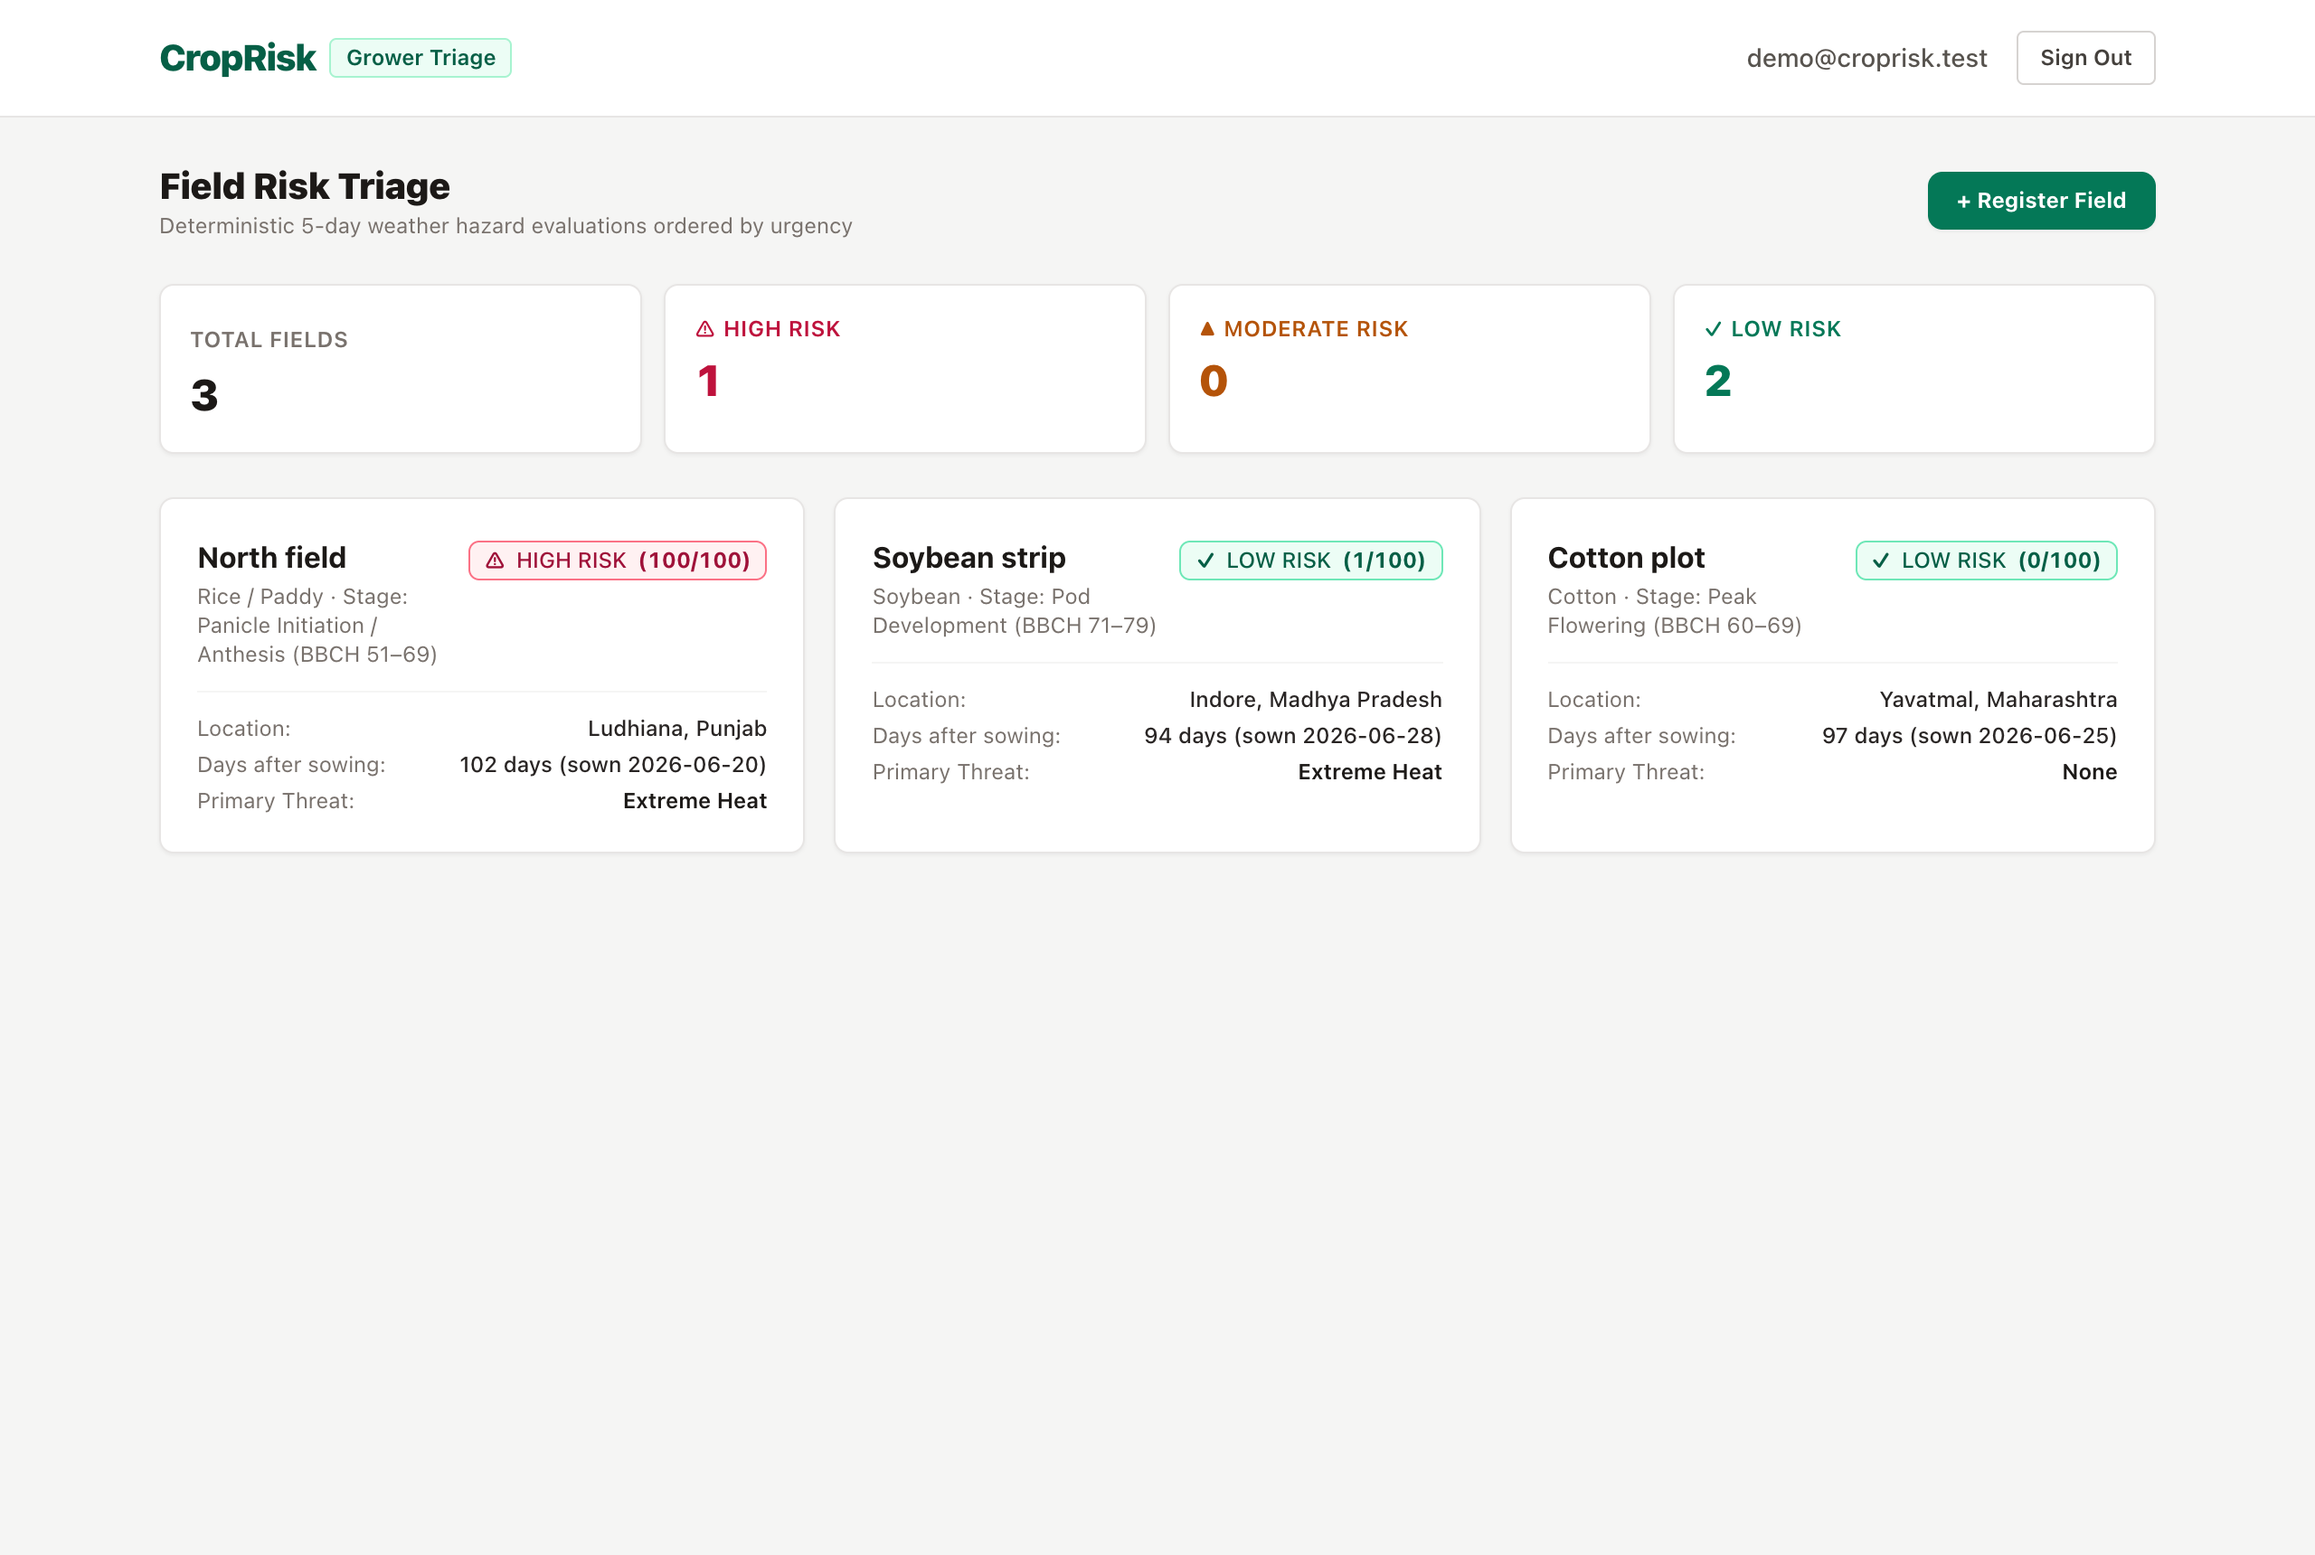
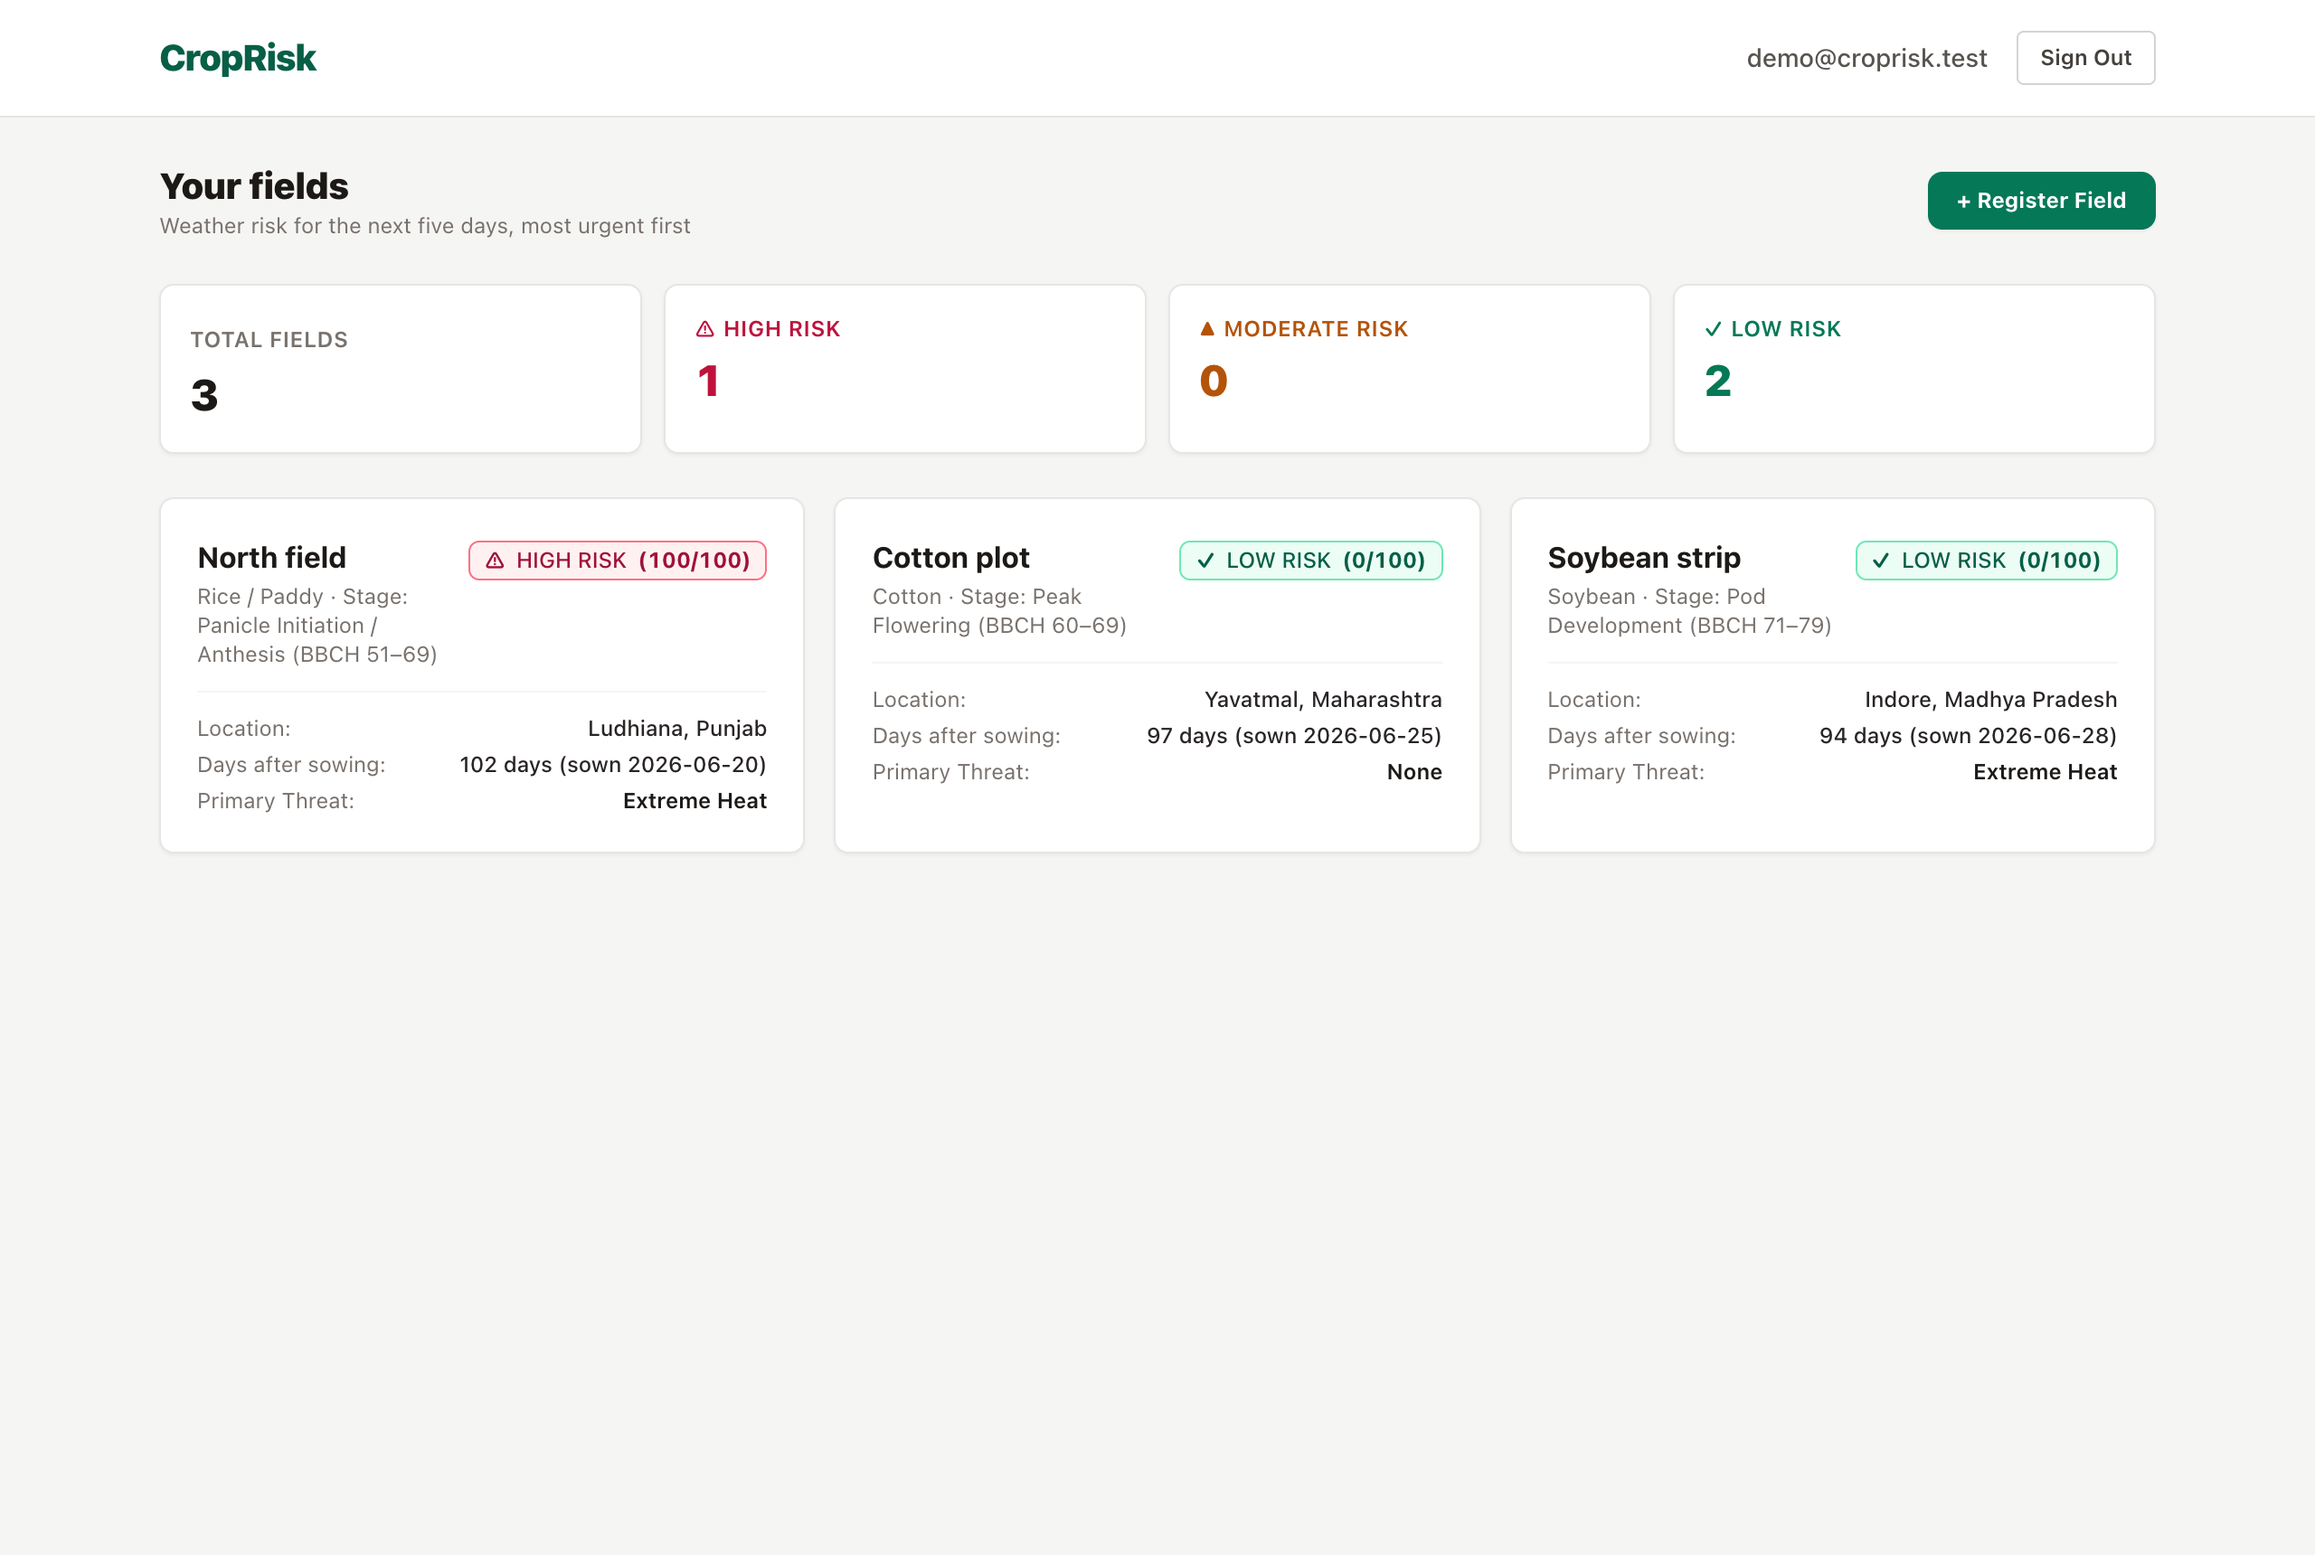
Shorten the page title and update the screenshots

diff --git a/frontend/index.html b/frontend/index.html
@@ -3,7 +3,7 @@
   <head>
     <meta charset="UTF-8" />
     <meta name="viewport" content="width=device-width, initial-scale=1.0" />
-    <title>CropRisk — Agronomic Weather Risk Engine</title>
+    <title>CropRisk</title>
     <link rel="icon" type="image/svg+xml" href="/favicon.svg" />
   </head>
   <body class="bg-stone-50 text-stone-900 min-h-screen">
